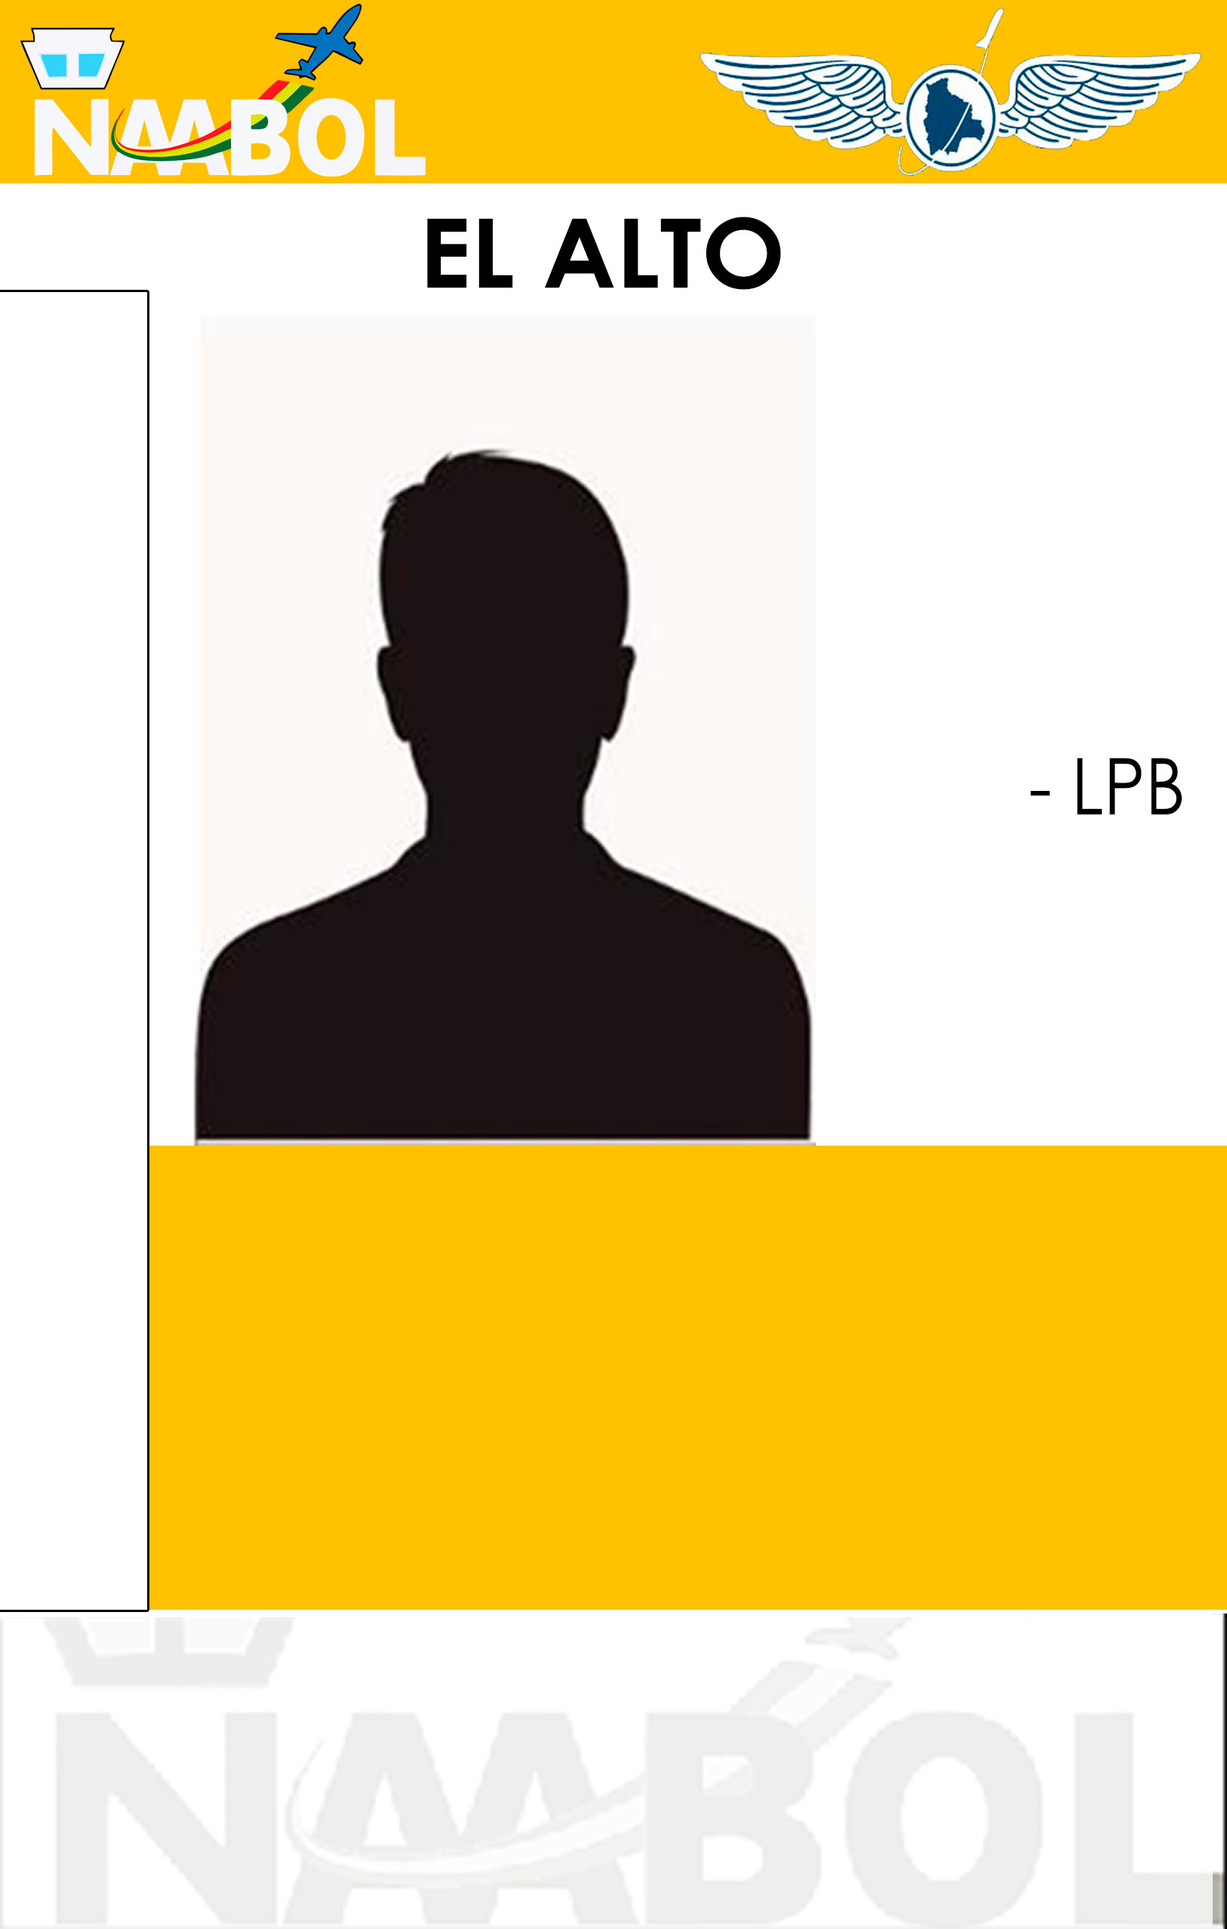
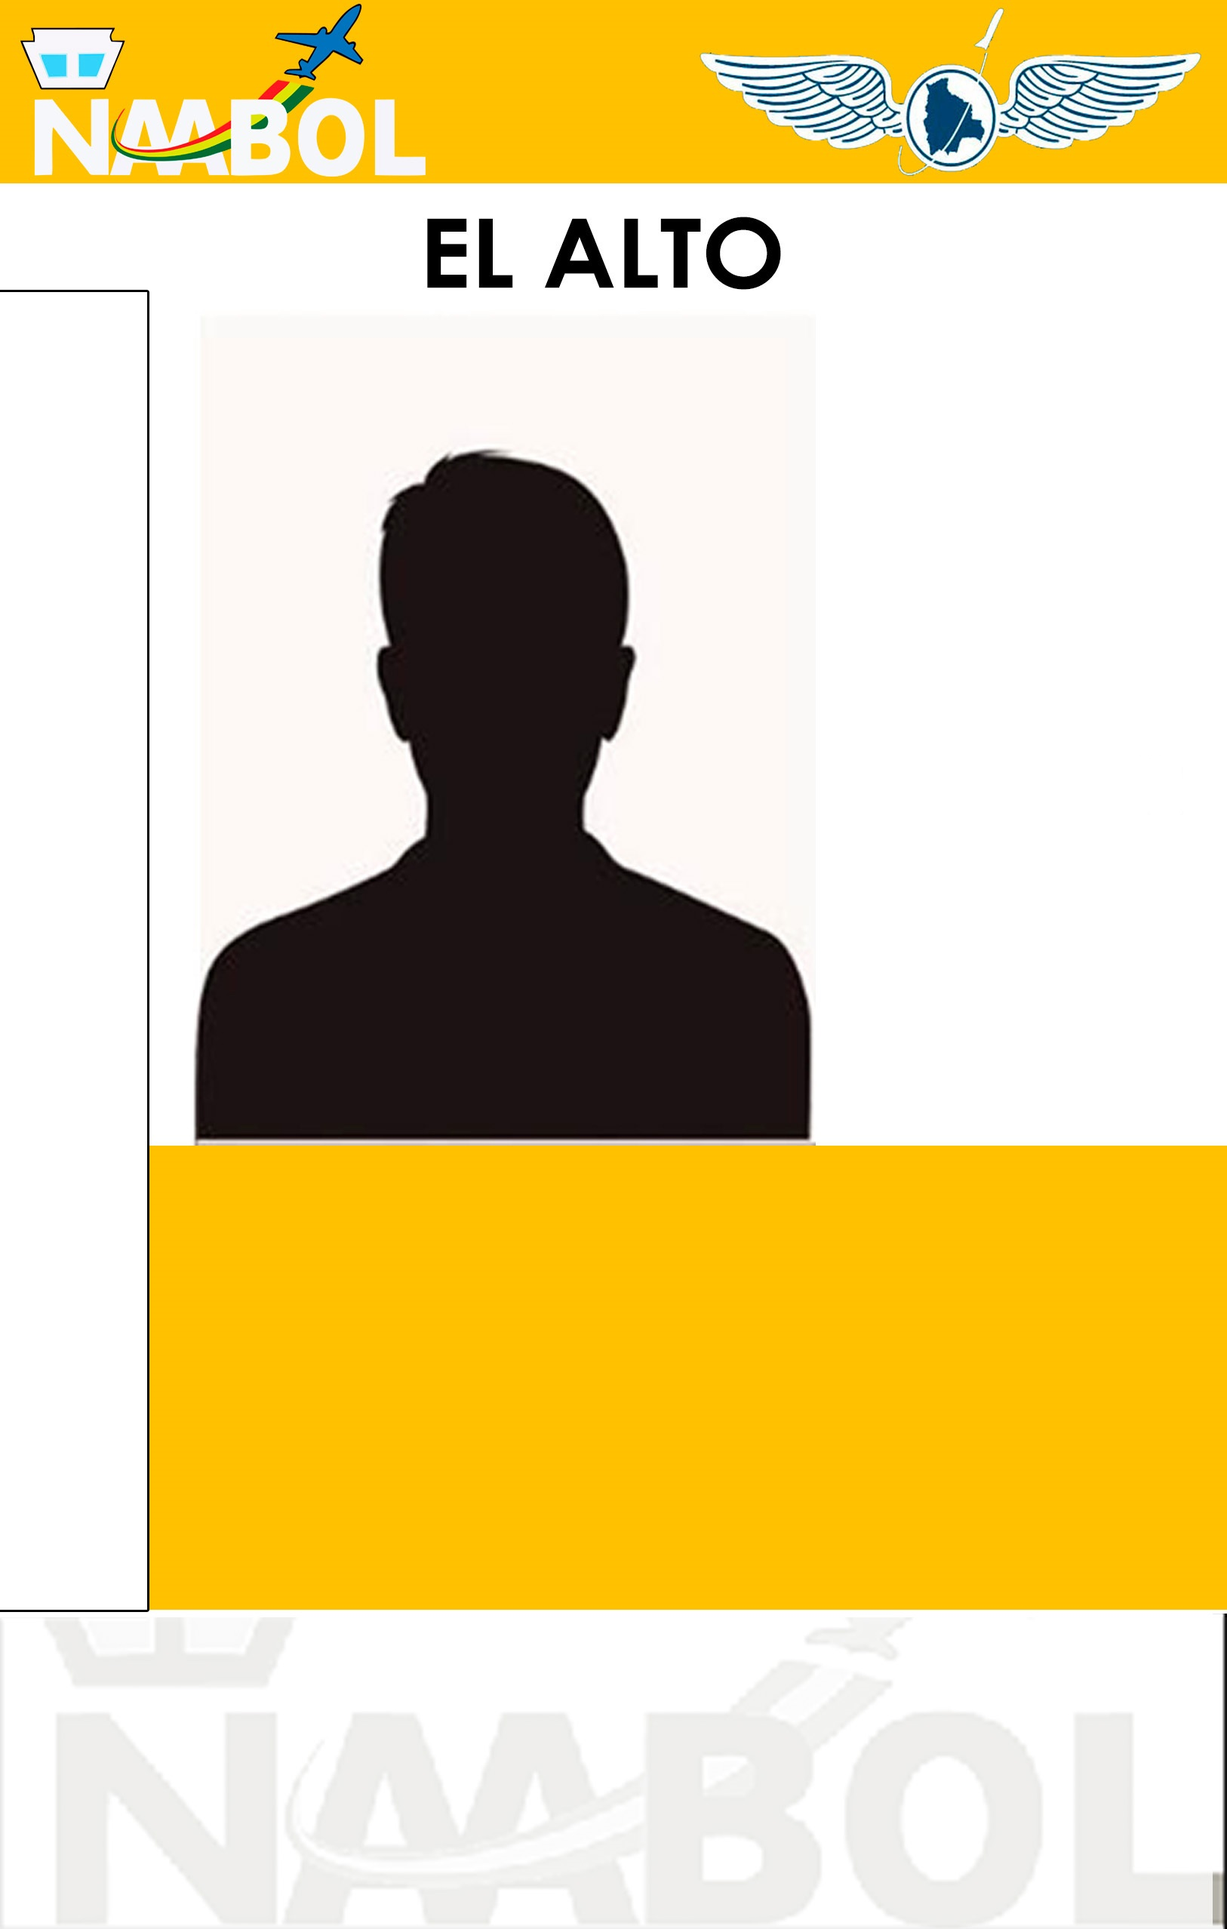
add/correcion 2.1

Changed region(s): [[0.0615, 0.0309, 0.246, 0.0927], [0.861, 0.3709, 0.984, 0.4327], [0.2768, 0.0618, 0.3075, 0.0927]]

diff --git a/resources/js/credenciales_1.js b/resources/js/credenciales_1.js
@@ -12,72 +12,15 @@ function fun_credeEmp_edit(param) {
         },
         // dataType: "dataType",
         success: function (response) {
-            console.log(response);
             $("#md_update_credencial").modal("show");
-            if (
-                response.data_vehi_aut == null ||
-                response.data_vehi_aut["tipo"] == null
-            ) {
-                setTimeout(() => {
-                    $("#option_tipo_lic_veh_edit").html("");
-                }, 500);
-                // LT=''
-            } else {
-                cad = response.data_vehi_aut["list"].split(",");
-                vehi = "";
-                cad.forEach((a, i) => {
-                    console.log(a);
-                    if (a != "0") {
-                        vehi += [i];
-                    }
-                });
-                console.log(cad);
-                sel_1[response.data_vehi_aut["tipo"]] = cad;
-                setTimeout(() => {
-                    $("#option_tipo_lic_veh_edit").html("");
-                }, 700);
-                setTimeout(() => {
-                    html = cad
-                        .map(function (p, i) {
-                            selec_chek = "";
-                            if (p == "1") {
-                                selec_chek = "checked=true";
-                            }
-                            return (html = `
-                                <div class="checkbox-fade fade-in-default">
-                                    <label>
-                                        <input type="checkbox" name="tipo_vehiculo_aut${i}" ${selec_chek} value="${p}" onchange="saveTipoLicencia('${
-                                response.data_vehi_aut.tipo
-                            }','${i}')" >
-                                        <span class="cr">
-                                            <i class="cr-icon ik ik-check text-warning"></i>
-                                        </span>
-                                        <span>${
-                                            sel[response.data_vehi_aut["tipo"]][
-                                                i
-                                            ]
-                                        }</span>
-                                    </label>
-                                </div>
-                        `);
-                        })
-                        .join(" ");
-                    $("#option_tipo_lic_veh_edit").html(html);
-                }, 1000);
-            }
 
-            $("#nc_tipo_edit").val(response.Tipo);
-            $("#nc_aeropuerto_edit").val(response.aeropuerto_2);
+            console.log(response.Empresa);
+          
             $("input[name=nc_ci_edit]").val(response.CI);
             $("input[name=nc_nom_edit]").val(response.Nombre);
             $("input[name=nc_pa_edit]").val(response.Paterno);
             $("input[name=nc_ma_edit]").val(response.Materno);
             $("#nc_em_edit_id").val(response.Empresa);
-
-            // $("#nc_em_edit_id").append(
-            //     `<option value="${response.Empresa}" selected>${response.NombEmpresa}</option>`
-            // );
-
             $("input[name=nc_car_edit]").val(response.Cargo);
             $("input[name=nc_codt_edit]").val(response.CodigoTarjeta);
             $("input[name=nc_codMy_edit]").val(response.CodMYFARE);
@@ -99,15 +42,21 @@ function fun_credeEmp_edit(param) {
             $("input[name=nc_11_edit]").val(response.TelTrab);
             $("input[name=nc_12_edit]").val(response.DirTrab);
             $("input[name=nc_13_edit]").val(response.Observacion);
+           
             $("#nc_estCiv_edit").val(response.EstCivil);
             $("#nc_sexo_edit").val(response.Sexo);
-            $("#nc_t_licencia_edit").val(response.data_vehi_aut["tipo"]);
+            
+            $("#nc_aeropuerto_edit").val(response.aeropuerto_2);
+            $("#nc_tipo_edit").val(response.tipo);
+
             idEmpleadoEdit = response.idEmpleado;
-            $("#option_tipo_lic_veh_edit").html("");
+
+
         },
     });
 }
 function update_creden(val) {
+    console.log($("#form_update_creden").serialize() );
     if ($("#nc_t_licencia_edit").val() == "") {
         LT = { tipo: "", list: "" };
     }
@@ -221,18 +170,10 @@ function input_busqueda_creden(param) {
     }
 }
 changeTerminal = (val) => {
-    data = { text: val };
-    console.log(JSON.stringify(data));
-  res= window.fetch('credenciales/query_buscar_B?text='+val, {
-        // method: "POST", // or 'PUT'
-        // headers: {
-        //     "Content-Type": "application/json",
-        // },
-        // body: JSON.stringify(data),
-    })
+  res= window.fetch('credenciales/query_buscar_B?text='+val,)
         .then((response) => response.json())
         .then((data) =>  lista_table_creden(data) )
-        .catch(console.log('error server '));
+        // .catch(console.log('error server '));
 };
 
 function lista_table_creden(res) {

diff --git a/resources/views/credenciales/view_1.blade.php b/resources/views/credenciales/view_1.blade.php
@@ -98,19 +98,19 @@
                                     <b>Tipo de Credencial</b>
                                 </div>
                             </div>
-                            <div class="col-sm-3">
+                            <div class="col-sm-5">
                                 <div class="form-group small">
                                     <select class="form-control form-bg-primary" name="nc_aeropuerto">
-                                        <option value="LPB">EL ALTO</option>
-                                        <option value="CIJ">CAP. AV. ANIBAL ARAB FADUL</option>
-                                        <option value="UYU">JOYA ANDINA</option>
-                                        <option value="ORU">JUAN MENDOZA</option>
-                                        <option value="RBQ">RURRENABAQUE</option>
+                                        @foreach ($terminals as $ter)
+                                            <option value="{{ $ter->ta_sigla }}">{{ $ter->ta_sigla }} |
+                                                {{ $ter->ta_nombre }}
+                                            </option>
+                                        @endforeach
                                     </select>
                                     <b>Aeropuerto </b>
                                 </div>
                             </div>
-                            <div class=" col-sm-6"></div>
+                            <div class=" col-sm-4"></div>
                             <div class="col-sm-3">
                                 <div class="form-group  small ">
                                     <input type="text" class="form-control form-control-sm " name="nc_ci" required
@@ -355,8 +355,8 @@
                         <div class="form-group row ">
                             <div class="col-sm-3">
                                 <div class="form-group ">
-                                    <select class="select_update" name="nc_tipo_edit" id="nc_tipo_edit"
-                                        style="background-color: blue">
+                                    <select class="select_update" style="background-color: blue" name="nc_tipo_edit"
+                                        id="nc_tipo_edit">
                                         <option value="L">Local</option>
                                         <option value="T">Temporal</option>
                                         <option value="N"><strong class=" text-danger">Nacional</strong>
@@ -365,21 +365,21 @@
                                     <b>Tipo de Credencial</b>
                                 </div>
                             </div>
-                            <div class="col-sm-3">
+                            <div class="col-sm-5">
                                 <div class="form-group ">
                                     <select class="select_update" style="background-color: red"
                                         name="nc_aeropuerto_edit" id="nc_aeropuerto_edit">
-                                        <option value="LPB">EL ALTO</option>
-                                        <option value="CIJ">CAP. AV. ANIBAL ARAB FADUL</option>
-                                        <option value="UYU">JOYA ANDINA</option>
-                                        <option value="ORU">JUAN MENDOZA</option>
-                                        <option value="RBQ">RURRENABAQUE</option>
-                                       
+                                        @foreach ($terminals as $ter)
+                                            <option value="{{ $ter->ta_sigla }}">{{ $ter->ta_sigla }} |
+                                                {{ $ter->ta_nombre }}
+                                            </option>
+                                        @endforeach
+
                                     </select>
                                     <b>Aeropuerto </b>
                                 </div>
                             </div>
-                            <div class=" col-sm-6"></div>
+                            <div class=" col-sm-4"></div>
                             <div class="col-sm-3">
                                 <div class="form-group  small ">
                                     <input type="text" class="form-control form-control-sm " name="nc_ci_edit"
@@ -408,10 +408,10 @@
                             </div>
                             <div class="col-sm-3">
                                 <div class="form-group small">
-                                    <select class="  select_update" style="color: black" id="nc_em_edit_id"
-                                        name="nc_em_edit">
+                                    <select class="select_update" style="background-color: gray" id="nc_em_edit_id"
+                                        name="nc_em_edit_id">
                                         @foreach ($Empr as $e)
-                                            <option value="{{ $e->Empresa }}">
+                                            <option value="{{ trim($e->Empresa) }}">
                                                 {{ $e->NombEmpresa }}</option>
                                         @endforeach
                                     </select>
@@ -462,44 +462,6 @@
                                     <b>Fecha de Vencimiento</b>
                                 </div>
                             </div>
-                            {{-- <div class="col-sm-3">
-                                <div class="form-group">
-                                    <select name="" id="nc_acci_edit" name="nc_acci_edit" >
-                                        <option value="C">Dar de Alta</option>
-                                        <option value="S">Credencial Extraviada</option>
-                                        <option value="V">Credencial Robada</option>
-                                        <option value="D">Dar de Baja</option>
-                                        <option value="U">Tramite no Concluido</option>
-                                    </select>
-                                    <b>Acciones</b>
-                                </div>
-                            </div> --}}
-                            {{-- <h5 class=" col-sm-12">Permiso de Coduccion en tierra</h5>
-
-                            <div class="col-sm-12 row">
-                                <div class="col-sm-3">
-                                    <div class="form-group small">
-                                        <select class="select_update" style="background-color:darkslategrey"
-                                            name="nc_t_licencia_edit" id="nc_t_licencia_edit">
-                                            <option value="">Ninguna</option>
-                                            <option value="P">Particular P</option>
-                                            <option value="A">Profecional A</option>
-                                            <option value="B">Profecional B</option>
-                                            <option value="C">Profecional C</option>
-                                        </select>
-                                        <b>Tipo de licencia</b>
-                                    </div>
-                                </div>
-                                <div class="col-sm-9" id="option_tipo_lic_veh_edit">
-
-                                </div>
-                                <div class=" col-sm-3 form-group">
-                                    <input type="text" class=" form-control form-control-sm"
-                                        name="nc_AreasCp_edit" id="nc_AreasCp_edit" placeholder="-#-#--#-"
-                                        pattern="[0-9_-]{8}" maxlength="8">
-                                    <b>Areas Autorizadas</b>
-                                </div>
-                            </div> --}}
                             <h5 class="col-sm-12">Información Adicional</h5>
                             <div class="col-sm-3">
                                 <div class="form-group small">
@@ -515,14 +477,8 @@
                             </div>
                             <div class="col-sm-3">
                                 <div class="form-group small">
-                                    <select class="" name="nc_estCiv_edit" id="nc_estCiv_edit"
-                                        style="background: transparent;
-                                        border-color:black;
-                                        border:1px solid #d9d9d9;
-                                    font-size: 14px;
-                                    height: 30px;
-                                    padding: 5px;
-                                    width: 100%;">
+                                    <select class="select_update" style="background-color: gray"
+                                        name="nc_estCiv_edit" id="nc_estCiv_edit">
                                         <option value="C">Casado</option>
                                         <option value="S">Soltero</option>
                                         <option value="V">Viudo</option>

diff --git a/app/Http/Controllers/credencialesController.php b/app/Http/Controllers/credencialesController.php
@@ -225,9 +225,14 @@ class credencialesController extends Controller
         //? return view('credenciales.pdf_creden_emp_a');
         $rutaimgL = [
             'LPB' => 'resources/plantilla/CREDENCIALESFOTOS/LAPAZAMVERSO.jpg',
-            'CIJ' => 'resources/plantilla/CREDENCIALESFOTOS/LAPAZAMVERSO1.jpg',
             'CBB' => 'resources/plantilla/CREDENCIALESFOTOS/COCHABAMBA2022.jpg',
             'VVI' => 'resources/plantilla/CREDENCIALESFOTOS/SANTACRUZAMVERSO.jpg',
+            'CIJ' => 'resources/plantilla/CREDENCIALESFOTOS/LAPAZAMVERSO1.jpg',
+            'ORU' => 'resources/plantilla/CREDENCIALESFOTOS/ORU-p.jpg',
+            'RBQ' => 'resources/plantilla/CREDENCIALESFOTOS/RBQ-p.jpg',
+            'UYU' => 'resources/plantilla/CREDENCIALESFOTOS/UYU-p.jpg',
+            'GYA' => 'resources/plantilla/CREDENCIALESFOTOS/GYA-p.jpg',
+            'RIB' => 'resources/plantilla/CREDENCIALESFOTOS/RIB-p.jpg',
         ];
         $rutaimgT = [
             'LPB' => 'resources/plantilla/CREDENCIALESFOTOS/TEMPORALLP.jpg',
@@ -237,9 +242,12 @@ class credencialesController extends Controller
         ];
         $rutaimgLC = [
             'LPB' => 'resources/plantilla/CREDENCIALESFOTOS/CONDUCCION-PLATAFORMA-LP.jpg',
-            'CIJ' => 'resources/plantilla/CREDENCIALESFOTOS/LPB-CIJ-LC.jpg',
             'CBB' => 'resources/plantilla/CREDENCIALESFOTOS/CONDUCCION-PLATAFORMA-CBB.jpg',
             'VVI' => 'resources/plantilla/CREDENCIALESFOTOS/CONDUCCION-PLATAFORMA-VVI.jpg',
+            'CIJ' => 'resources/plantilla/CREDENCIALESFOTOS/LPB-CIJ-LC.jpg',
+            'RBQ' => 'resources/plantilla/CREDENCIALESFOTOS/RBQLC.jpg',
+            'UYU' => 'resources/plantilla/CREDENCIALESFOTOS/UYULC.jpg',
+            'ORU' => 'resources/plantilla/CREDENCIALESFOTOS/ORULC.jpg',
         ];
         switch ($data['Tipo']) {
             case 'N':
@@ -386,7 +394,47 @@ class credencialesController extends Controller
 
     public function query_edit_emp(Request $request)
     {
-        $emp = Empleados::where('idEmpleado', $request->input('id'))->first();
+        $emp = Empleados::select(
+                'Codigo',
+                'tipo',
+                'CI',
+                'CategoriaLic',
+                'data_vehi_aut',
+                'Nombre',
+                'Paterno',
+                'Materno',
+                'Empresa',
+                'Cargo',
+                'CodigoTarjeta',
+                'CodMYFARE',
+                'NroRenovacion',
+                'Herramientas',
+                'AreasAut',
+                'AreasCP',
+                'GSangre',
+                'aeropuerto',
+                'aeropuerto_2',
+                'Vencimiento',
+                'Fecha',
+                'FechaNac',
+                'EstCivil',
+                'Sexo',
+                'Profesion',
+                'altura',
+                'Ojos',
+                'Peso',
+                'TelDom',
+                'Direccion',
+                'TelTrab',
+                'DirTrab',
+                'Observacion',
+                'data_creden',
+                'idEmpleado',
+
+            )
+
+
+            ->where('idEmpleado', $request->input('id'))->first();
         $emp->Vencimiento = Carbon::parse($emp['Vencimiento'])->format('Y-m-d');
         $emp->FechaNac = Carbon::parse($emp['FechaNac'])->format('Y-m-d');
         $emp->Fecha = Carbon::parse($emp['Fecha'])->format('Y-m-d');
@@ -406,7 +454,7 @@ class credencialesController extends Controller
                 'Nombre' => $request->input('nc_nom_edit'),
                 'Paterno' => $request->input('nc_pa_edit'),
                 'Materno' => $request->input('nc_ma_edit'),
-                'Empresa' => $request->input('nc_em_edit'),
+                'Empresa' => $request->input('nc_em_edit_id'),
                 'Cargo' => $request->input('nc_car_edit'),
                 'CodigoTarjeta' => $request->input('nc_codt_edit'),
                 'CodMYFARE' => $request->input('nc_codMy_edit'),
@@ -509,6 +557,9 @@ class credencialesController extends Controller
     }
     public function query_buscar_B(Request $request)
     {
+        // return Empleados::where('aeropuerto_2',$request->input('text'))
+        // ->join('Empresas', 'Empresas.Empresa', 'Empleados.Empresa')
+        // ->first();
         if ($request->input('text') == 'todo') {
             return  $em = Empleados::where('aeropuerto', Auth::user()->aeropuerto)
                 ->join('Empresas', 'Empresas.Empresa', 'Empleados.Empresa')
@@ -530,7 +581,6 @@ class credencialesController extends Controller
             # code...
             return
                 $em = Empleados::where('aeropuerto_2', $request->input('text'))
-
                 ->join('Empresas', 'Empresas.Empresa', 'Empleados.Empresa')
                 ->select(
                     'Empleados.idEmpleado',

diff --git a/resources/views/credenciales/pdf_creden_emp_T1.blade.php b/resources/views/credenciales/pdf_creden_emp_T1.blade.php
@@ -66,7 +66,7 @@
 
         p.f {
             position: fixed;
-            right: 80px;
+            right: 30px;
             top: 253px;
             font-size: 25px;
             color: black;
@@ -118,7 +118,7 @@
         <!-- <img class="img_a" src="{{ asset('resources/plantilla/CREDENCIALESFOTOS/LAPAZAMVERSO.jpg') }}"  alt=""> -->
         <img class="img_b" src="{{ asset($data->urlphoto) }}" alt="">
         <p class="e">{{ $M }}<br>{{ $Y }}</p>
-        <p class="f">{{ $data->Codigo }}</p>
+        <p class="f">{{ $data->Codigo }}-{{$aero}} </p>
         <p class="a"> {{ $data->Nombre }} <br>{{ $data->Paterno }} {{ $data->Materno }}<br>{{ $data->Cargo }}
             <br>{{ $em }}
         </p>
